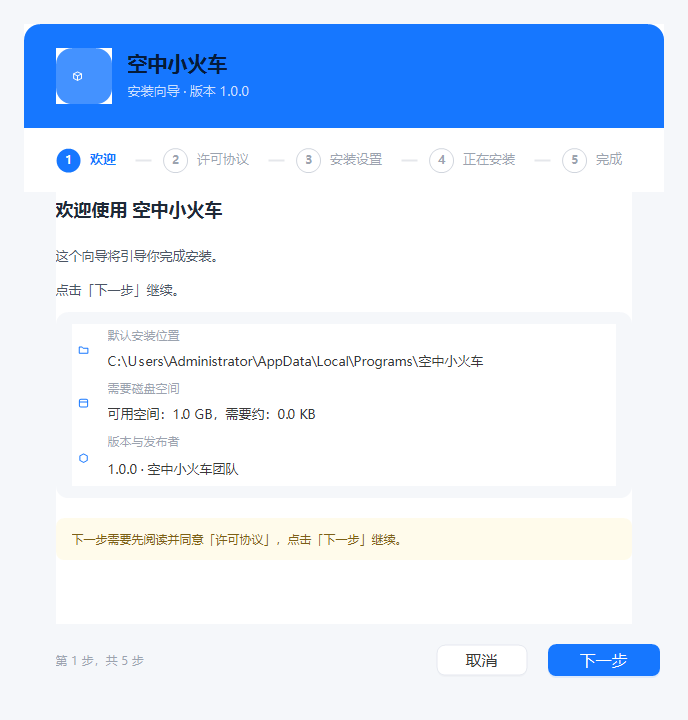
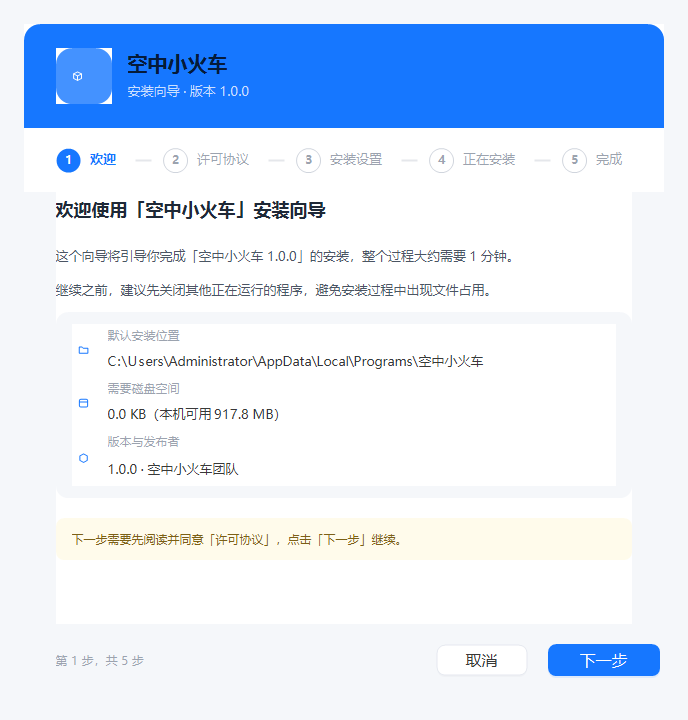
欢迎页文案照抄设计稿
用户指出「根本没有 1:1」。并排看图后发现最大的差异不是样式，
而是**文案**：我一直在调几何，文案却是我自己编的。

设计稿的确切文案（已逐字抄入 WizardStrings）
  标题    欢迎使用「{产品名}」安装向导
  正文一  这个向导将引导你完成「{产品名} {版本}」的安装，整个过程大约需要 1 分钟。
  正文二  继续之前，建议先关闭其他正在运行的程序，避免安装过程中出现文件占用。
  空间值  {需要}（本机可用 {可用}）

改动
- WizardStrings 新增 Welcome.Body2、Welcome.SpaceValue；
  Welcome.Title / Welcome.Body 改成设计稿措辞并带产品名与版本占位
- WizardForm 欢迎页标题按模板填入产品名，正文两段拼接
- BuildSpaceText 改用 Welcome.SpaceValue，参数顺序修正为（需要, 可用）

为什么之前没发现
  verify-ui 第 6 节只采样**颜色**，文案对不对、图标有没有，它完全看不出来。
  所以几何改对了指标就到 88%，但文案全错指标毫无反应。
  下一轮要给 verify-ui 补「文案与图标存在性」断言，堵上这个盲区。

仍与设计稿有差距（下一轮）
  信息卡每行的 32x32 浅蓝底图标（我的是细线小图标）
  信息卡三行的行间距
  提示条左侧的 ⓘ 图标
  主按钮「下一步 →」的箭头图标

验收：构建 0 警告、单元测试 182/182

diff --git a/src/Installer.UI/Forms/WizardForm.cs b/src/Installer.UI/Forms/WizardForm.cs
@@ -298,8 +298,11 @@ namespace Installer.UI.Forms
             {
                 case WizardPage.Welcome:
                     ShowView(_welcomeView);
-                    _welcomeView.Title = _presenter.Text("Welcome.Title") + " " + _presenter.ProductName;
-                    _welcomeView.Body = _presenter.Text("Welcome.Body");
+                    _welcomeView.Title = string.Format(CultureInfo.CurrentCulture,
+                        _presenter.Text("Welcome.Title"), _presenter.ProductName);
+                    _welcomeView.Body = string.Format(CultureInfo.CurrentCulture,
+                        _presenter.Text("Welcome.Body"), _presenter.ProductName, _presenter.ProductVersion)
+                        + "\r\n\r\n" + _presenter.Text("Welcome.Body2");
                     _welcomeView.ApplyCaptions(_presenter.Text);
                     _welcomeView.DirValue = _presenter.Options.InstallDir;
                     _welcomeView.SpaceValue = BuildSpaceText();
@@ -467,8 +470,8 @@ namespace Installer.UI.Forms
                     need += f.Size;
                 }
 
-                return string.Format(CultureInfo.CurrentCulture, _presenter.Text("Path.Space"),
-                    FormatSize(free), FormatSize(need));
+                return string.Format(CultureInfo.CurrentCulture, _presenter.Text("Welcome.SpaceValue"),
+                    FormatSize(need), FormatSize(free));
             }
             catch (IOException)
             {

diff --git a/src/Installer.UI/Common/WizardStrings.cs b/src/Installer.UI/Common/WizardStrings.cs
@@ -75,10 +75,15 @@ namespace Installer.UI.Common
             Add(t, "Wizard.StepSettings", "安装设置", "Setup");
             Add(t, "Step.Install", "正在安装", "Installing");
 
-            Add(t, "Welcome.Title", "欢迎使用", "Welcome");
+            // 文案照抄设计稿第 3 版（欢迎页），不要自己改写
+            Add(t, "Welcome.Title", "欢迎使用「{0}」安装向导", "Welcome to the {0} Setup Wizard");
             Add(t, "Welcome.Body",
-                "这个向导将引导你完成安装。\r\n\r\n点击「下一步」继续。",
-                "This wizard will guide you through the installation.\r\n\r\nClick Next to continue.");
+                "这个向导将引导你完成「{0} {1}」的安装，整个过程大约需要 1 分钟。",
+                "This wizard will install {0} {1}. It takes about a minute.");
+            Add(t, "Welcome.Body2",
+                "继续之前，建议先关闭其他正在运行的程序，避免安装过程中出现文件占用。",
+                "Before continuing, close any running instances to avoid file locks.");
+            Add(t, "Welcome.SpaceValue", "{0}（本机可用 {1}）", "{0} ({1} free on this PC)");
 
             Add(t, "License.Title", "许可协议", "License Agreement");
             Add(t, "License.Accept", "我已阅读并接受许可协议", "I accept the terms of the license agreement");
